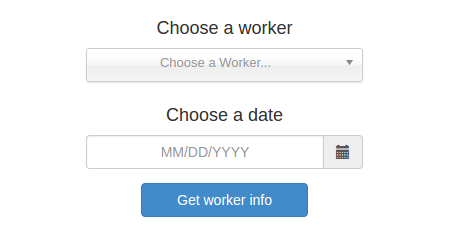
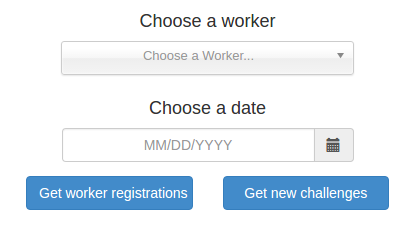
Small edits on worker searchign page.

diff --git a/gui/search-workers.html b/gui/search-workers.html
@@ -2,7 +2,7 @@
 <html lang="en">
 <head>
 	<meta charset="UTF-8">
-	<title>Welcome</title>
+	<title>Workers searching</title>
 
 	<script src='js/libs/d3.v3.js' type='text/javascript'></script>
 	<script src='js/libs/crossfilter.js' type='text/javascript'></script>
@@ -57,7 +57,7 @@
 	<div class="container" align="center">
 		<div class="row">
 			<div class="col-sm-12">
-				<h2>Worker's registrations at different moments of time</h2>
+				<h2>Worker's information at different moments of time</h2>
 			</div>
 		</div>
 
@@ -72,6 +72,24 @@
 		<div class="row">
 			<div id="info_hidden" style="display: none;" align="center">
 				<p> You have reached the workers searching level! </p>
+				<p>
+					This page is a fast way to access information about a worker. It provides two types of information:
+				</p>
+				<p>
+					<b>The worker's registrations</b> can be accessed by clicking the first button: <i>Get worker registrations</i>.
+					Previously, the user needs to click on the dropdown box and select a worker. If no date is selected from the second box,
+					then all worker's registrations are going to be pulled out. If a date is selected, only the challenges that the user was
+					registered for at that date will be showed up.
+				</p>
+				<p>
+					<b>The available challenges</b> for the worker can be accessed by clicking the second button: <i>Get new challenges</i>.
+					Previously, the user needs to click on the datetime box and select a date. The result will be a table containing all
+					the available challenges at the chosen date.
+				</p>
+				<p>
+					From this page the user can navigate to the project page, challenge page and worker page by clicking on different links
+					provided once the information is pulled out as explained before.
+				</p>
 			</div>
 		</div>
 
@@ -150,7 +168,7 @@
 						<th>Registration Start Date</th>
 						<th>Submission End Date</th>
 						<th>Challenge Type</th>
-						<th>Submitted</th>
+						<th>Number of registrants</th>
 						<th>Prize</th>
 					</tr>
 				</thead>

diff --git a/gui/js/search-workers.js b/gui/js/search-workers.js
@@ -121,7 +121,7 @@ $("#button-get-chal").on('click', function (e) {
                 function (d) { return d.registrationStartDate; },
                 function (d) { return d.submissionEndDate; },
                 function (d) { return d.challengeType; },
-                function (d) { return d.submitted != 0; },
+                function (d) { return d.numRegistrants; },
                 function (d) { return d.prize; },
                 ])
             .sortBy(function (d){ return d.dtgDate; })

diff --git a/gui/index.html b/gui/index.html
@@ -77,7 +77,7 @@ li{ float:left;padding:15px}
 			</div>
 			<div class="col-sm-4">
 				<ul>
-					<li><span>Visualize worker registrations at different moments in time</span></li>
+					<li><span>Visualize worker's information at different moments in time</span></li>
 				</ul>
 				<a href="search-workers.html">
 					<img name="workersButton"
